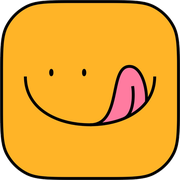
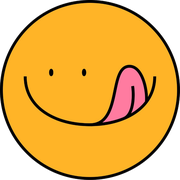
Use round Pancake mark, size to k-top→baseline, widen gap
Made-with: Cursor

diff --git a/components/shared/PancakeLogo.tsx b/components/shared/PancakeLogo.tsx
@@ -6,17 +6,16 @@ type PancakeLogoProps = {
 };
 
 /**
- * Mark is sized to cap-height of the wordmark (top of "P" to baseline of
- * "Panca", ignoring the "k" descender). P letter spans y=109→251 of the 291-
- * tall wordmark image (≈49%), so at rendered h-8/sm:h-9 that's 16/18 px.
- * The wordmark's geometric center sits above the baseline because of the
- * tall "k" ascender, so the mark is nudged down by ~4 px via translate-y to
- * snap its top to the cap line.
+ * Mark spans from the top of the "k" ascender to the baseline of "Panca"
+ * (ignoring the "k" descender). K top ≈ top of the wordmark image and the
+ * baseline sits at ~86% of the image height (251/291). At rendered h-8 /
+ * sm:h-9, that translates to 28 / 31 px tall. `items-start` anchors both
+ * tops, so the mark top aligns with the k-ascender.
  */
 export function PancakeLogo({ className, ...props }: PancakeLogoProps) {
   return (
     <div
-      className={`inline-flex items-center gap-1 sm:gap-[5px] ${className ?? ""}`}
+      className={`inline-flex items-start gap-[6px] sm:gap-2 ${className ?? ""}`}
       {...props}
     >
       <Image
@@ -26,7 +25,7 @@ export function PancakeLogo({ className, ...props }: PancakeLogoProps) {
         height={512}
         quality={100}
         priority
-        className="h-4 w-4 shrink-0 translate-y-[4px] sm:h-[18px] sm:w-[18px]"
+        className="h-[28px] w-[28px] shrink-0 sm:h-[31px] sm:w-[31px]"
       />
       <Image
         src="/pancake-wordmark.png"
